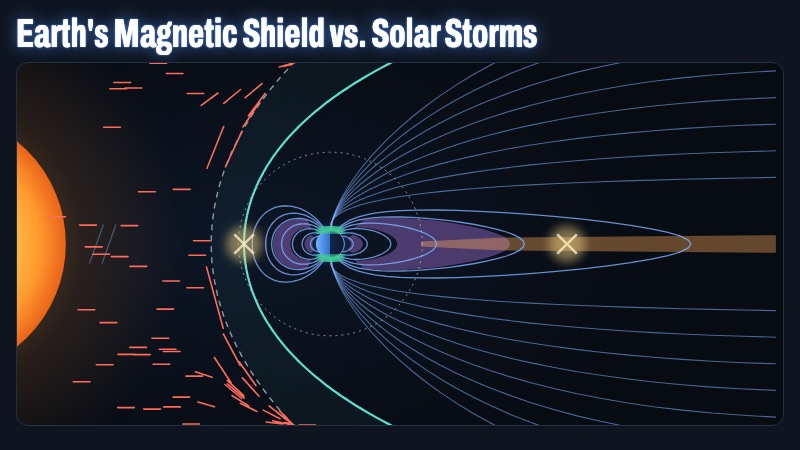
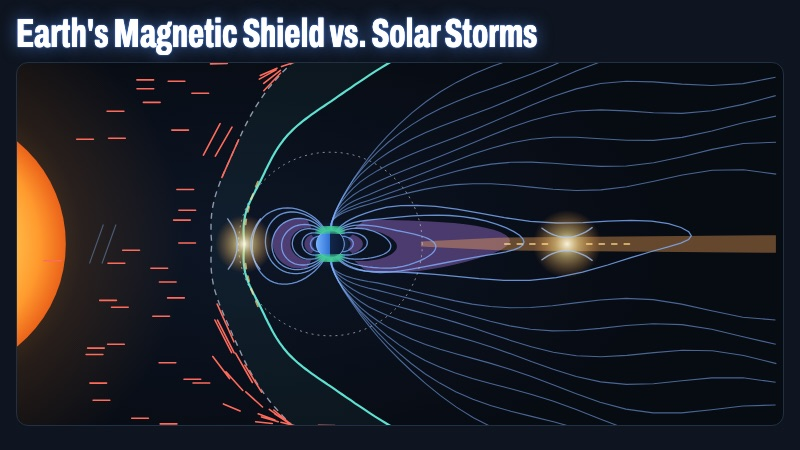
Magnetic shield: radio-card picker, livelier field and flare
Mode picker as a radio group with Try it / Showing labels, greyed
inactive cards and a separate Replay button. Field lines, shield edge
and bow shock now ripple (stronger in storms). Reconnection shown as
glowing sparks with pinched field lines and particle jets. Solar flare
now a repeating sequence: loop, flash, light fronts, ionosphere glow and
energetic protons.

diff --git a/energy/magnetic-shield/index.html b/energy/magnetic-shield/index.html
@@ -182,13 +182,35 @@ h1{margin:0;font-stretch:62%;font-weight:700;font-size:clamp(34px,5vw,56px);line
   text-shadow:0 0 2px rgba(91,149,250,.9),0 0 16px rgba(91,149,250,.6)}
 .sub{margin:8px 0 0;color:var(--soft);font-size:16px;max-width:70ch}
 
-.modes{display:flex;flex-wrap:wrap;gap:8px;margin:18px 0 0}
-.modes button{font:inherit;font-size:15px;font-weight:650;color:var(--soft);background:var(--panel);border:1px solid var(--line);
-  border-radius:999px;padding:9px 16px;cursor:pointer;display:inline-flex;align-items:center;gap:8px}
-.modes button .d{width:10px;height:10px;border-radius:50%}
-.modes button:hover{color:#fff;border-color:#3A5376}
-.modes button[aria-pressed="true"]{color:#fff;background:#16233a;border-color:var(--blue);box-shadow:inset 0 -2px 0 var(--blue)}
-.modes .hint{align-self:center;font-size:13px;color:var(--muted);margin-left:4px}
+.picker{margin:20px 0 0;padding:14px;border-radius:14px;background:linear-gradient(180deg,#132036,#0f1828);border:1px solid #2a3d5c}
+.picker .ask{display:flex;align-items:center;gap:10px;flex-wrap:wrap;margin:0 0 10px 2px}
+.picker .ask b{font-size:17px;color:#fff;font-weight:700}
+.picker .ask .tap{font-size:13px;color:#cfe0ff;background:#1d2e4d;border:1px solid #2f4d7f;border-radius:999px;padding:3px 10px}
+.modes{display:grid;grid-template-columns:repeat(3,minmax(0,1fr));gap:10px}
+@media (max-width:640px){.modes{grid-template-columns:1fr}}
+.modes button{--c:#5B95FA;font:inherit;color:#fff;background:#0E1520;border:2px solid color-mix(in srgb,var(--c) 45%,transparent);
+  border-radius:12px;padding:12px 14px;cursor:pointer;display:flex;align-items:center;gap:12px;text-align:left;transition:transform .15s,background .15s,border-color .15s,box-shadow .15s}
+.modes button .rb{flex:none;width:20px;height:20px;border-radius:50%;border:2px solid color-mix(in srgb,var(--c) 70%,#fff);display:grid;place-items:center}
+.modes button .rb::after{content:"";width:10px;height:10px;border-radius:50%;background:var(--c);transform:scale(0);transition:transform .15s}
+.modes button[aria-checked="true"] .rb::after{transform:scale(1)}
+.modes button .ic{flex:none;width:38px;height:38px;border-radius:50%;display:grid;place-items:center;font-size:19px;background:color-mix(in srgb,var(--c) 22%,transparent)}
+.modes button .txt{flex:1;min-width:0}
+.modes button .t{display:block;font-size:17px;font-weight:700;line-height:1.15}
+.modes button .s{display:block;font-size:12.5px;color:var(--soft);margin-top:2px}
+.modes button .go{flex:none;font-size:12px;font-weight:700;letter-spacing:.04em;padding:4px 10px;border-radius:999px;color:#0b1220;background:var(--c);white-space:nowrap}
+.modes button[aria-checked="true"] .go{background:transparent;color:var(--c);border:1px solid var(--c)}
+.modes button:hover{transform:translateY(-2px);border-color:var(--c);background:color-mix(in srgb,var(--c) 10%,#0E1520)}
+.modes button[aria-checked="true"]{border-color:var(--c);background:color-mix(in srgb,var(--c) 20%,#0E1520);box-shadow:0 0 0 3px color-mix(in srgb,var(--c) 30%,transparent),0 8px 24px color-mix(in srgb,var(--c) 25%,transparent)}
+.modes button[aria-checked="true"] .ic{background:var(--c);color:#0b1220}
+.modes button.new{animation:nudge 2.2s ease-in-out infinite}
+@keyframes nudge{0%,100%{box-shadow:0 0 0 0 color-mix(in srgb,var(--c) 0%,transparent)}50%{box-shadow:0 0 0 6px color-mix(in srgb,var(--c) 28%,transparent)}}
+.replay{margin:10px 0 0 auto;display:flex;justify-content:flex-end}
+.replay button{font:inherit;font-size:14px;font-weight:650;color:#fff;background:#1d2e4d;border:1px solid #2f4d7f;border-radius:999px;padding:7px 14px;cursor:pointer}
+.replay button:hover{background:#26406b}
+.replay button[hidden]{display:none}
+.modes button[aria-checked="false"]{filter:grayscale(1) brightness(.75);opacity:.45;transition:transform .15s,background .15s,border-color .15s,box-shadow .15s,filter .2s,opacity .2s}
+.modes button[aria-checked="false"]:hover,.modes button[aria-checked="false"]:focus-visible{filter:none;opacity:1}
+@media (prefers-reduced-motion:reduce){.modes button.new{animation:none}}
 button:focus-visible{outline:2px solid var(--blue);outline-offset:2px}
 
 .stats{display:grid;grid-template-columns:repeat(4,minmax(0,1fr));gap:12px;margin-top:16px}
@@ -230,7 +252,7 @@ aside h2{margin:0;font-size:12px;font-weight:600;letter-spacing:.12em;text-trans
 
 footer{margin-top:16px;font-size:12.5px;line-height:1.6;color:var(--muted)}
 footer a{color:var(--soft)}
-.thumb{padding:0}.thumb .home-nav,.thumb .sub,.thumb .modes,.thumb .stats,.thumb aside,.thumb .legend,.thumb footer{display:none!important}
+.thumb{padding:0}.thumb .home-nav,.thumb .sub,.thumb .picker,.thumb .stats,.thumb aside,.thumb .legend,.thumb footer{display:none!important}
 .thumb .card{border:0;border-radius:0;padding:14px 16px;height:450px}.thumb h1{font-size:40px}.thumb .grid{grid-template-columns:1fr;margin-top:8px}.thumb #scene{aspect-ratio:auto;height:362px}.thumb #scene text{display:none}
 </style>
 <style>.home-nav{position:sticky;top:12px;z-index:50;max-width:1320px;margin:0 auto 14px;font:500 14px/1.4 "Archivo",system-ui,sans-serif}.home-nav a{color:#fff;text-decoration:none;display:inline-flex;align-items:center;gap:8px;padding:9px 16px 9px 13px;border:0;border-radius:999px;font-weight:650;font-size:14.5px;letter-spacing:.01em;background:#2F6FEF;box-shadow:0 0 0 1px rgba(255,255,255,.18) inset,0 4px 14px rgba(0,0,0,.45)}.home-nav a:hover{background:#3D7BFF}.home-nav a:focus-visible{outline:2px solid #fff;outline-offset:2px}</style>
@@ -240,13 +262,16 @@ footer a{color:var(--soft)}
 <main>
   <div class="card">
     <h1>Earth's Magnetic Shield vs. Solar Storms</h1>
-    <p class="sub">Earth's magnetic field deflects the solar wind, a constant stream of particles from the Sun. Switch between a calm day, a solar flare and a coronal mass ejection to see what gets through, and hover any part to learn what it is.</p>
+    <p class="sub">Earth's magnetic field deflects the solar wind, a constant stream of particles from the Sun. Choose what the Sun is doing below to see what gets through, and hover any part to learn what it is.</p>
 
-    <div class="modes" role="group" aria-label="Space weather">
-      <button id="mCalm" aria-pressed="true"><i class="d" style="background:#5B95FA"></i>Calm solar wind</button>
-      <button id="mFlare" aria-pressed="false"><i class="d" style="background:#FFE08A"></i>Solar flare</button>
-      <button id="mCme" aria-pressed="false"><i class="d" style="background:#FF6B5B"></i>CME hits Earth</button>
-      <span class="hint">Click again to replay</span>
+    <div class="picker">
+      <div class="ask"><b>☀ What is the Sun doing?</b><span class="tap">👆 Click a card to change the scene</span></div>
+      <div class="modes" role="radiogroup" aria-label="What is the Sun doing?">
+        <button id="mCalm" role="radio" aria-checked="true" tabindex="0" style="--c:#5B95FA"><span class="rb" aria-hidden="true"></span><span class="ic" aria-hidden="true">🌍</span><span class="txt"><span class="t">Calm solar wind</span><span class="s">A normal day</span></span><span class="go">Showing</span></button>
+        <button id="mFlare" role="radio" aria-checked="false" tabindex="-1" class="new" style="--c:#FFD86B"><span class="rb" aria-hidden="true"></span><span class="ic" aria-hidden="true">⚡</span><span class="txt"><span class="t">Solar flare</span><span class="s">A flash of light and X-rays</span></span><span class="go">Try it ›</span></button>
+        <button id="mCme" role="radio" aria-checked="false" tabindex="-1" class="new" style="--c:#FF6B5B"><span class="rb" aria-hidden="true"></span><span class="ic" aria-hidden="true">💥</span><span class="txt"><span class="t">CME hits Earth</span><span class="s">A solar storm arrives</span></span><span class="go">Try it ›</span></button>
+      </div>
+      <div class="replay"><button id="bReplay" hidden>↻ Replay</button></div>
     </div>
 
     <div class="stats" aria-live="polite">
@@ -313,6 +338,7 @@ footer a{color:var(--soft)}
     aurora: ['Aurora', 'Light made when particles guided down the field lines hit the upper atmosphere. Normally a ring around the poles; during big storms it spreads toward the equator.'],
     earth: ['Earth', 'The magnetic field comes from molten iron moving in Earth\'s outer core, about 3,000 km below the surface.'],
     flare: ['Solar flare', 'A sudden burst of light and X-rays from the Sun. It travels at the speed of light, so it reaches Earth in about 8 minutes, before any warning.'],
+    protons: ['Solar energetic particles', 'Protons blasted out by the flare at a good fraction of the speed of light. Most are turned away, but some slide down the open field lines into the polar caps, where they disrupt radio and can harm astronauts and satellites.'],
     iono: ['Sunlit ionosphere', 'X-rays from a flare charge up the upper atmosphere on the day side, which absorbs high-frequency radio signals: a radio blackout. The magnetic shield cannot stop light.'],
     cme: ['Coronal mass ejection (CME)', 'A cloud of about a billion tons of solar plasma with its own magnetic field, moving at 250 to 3,000 km/s. The fastest reach Earth in 15 to 18 hours, most take several days.'],
     xday: ['Reconnection on the day side', 'When the CME\'s magnetic field points south, opposite to Earth\'s, the two fields join here. That opens the door for solar wind energy to pour into the magnetosphere.'],
@@ -348,6 +374,7 @@ footer a{color:var(--soft)}
       title: 'A solar flare',
       story: `<p>A <b>flare</b> is a flash of light and X-rays from the Sun. It travels at the speed of light, so it reaches Earth in about <b>8 minutes</b>, with no warning.</p>
         <p>The magnetic shield <b>cannot stop light</b>. The X-rays charge up the upper atmosphere on the <b>sunlit side</b> and block high-frequency radio: a <b>radio blackout</b>, rated R1 to R5 by NOAA.</p>
+        <p>Big flares also fire <b>energetic protons</b> (white streaks). The shield turns most away, but some slide down the field lines into the <b>polar caps</b>.</p>
         <p>The shield itself barely changes. The bigger danger often comes later, if the flare launched a <b>CME</b>.</p>`,
       stats: [['~10 R⊕', 'unchanged: light passes through'], ['~400 km/s', 'unchanged'], ['Polar', 'no change'], ['R1–R5', 'radio blackout scale (not G)']]
     },
@@ -383,10 +410,21 @@ footer a{color:var(--soft)}
   const P = (x, y) => [OX + (x - X0) * S, OY - y * S];
   const path = pts => pts.length ? 'M' + pts.map(p => { const q = P(p[0], p[1]); return f1(q[0]) + ' ' + f1(q[1]); }).join('L') : 'M0 0';
   // Shue-type boundary: r = r0 (2 / (1 + cos θ))^a, θ measured from the Sun direction
-  function boundary(r0, a, xmax = X1 + 2) {
+  // the field is never still: waves run along it, stronger when the solar wind gusts
+  let T = 0;
+  const amp = () => lerp(0.12, 0.3, cur.hot);
+  function wobble(pts, ph, gain = 1) {
+    const A = amp() * gain;
+    return pts.map(([x, y]) => {
+      const r = Math.hypot(x, y), w = clamp((r - 1.3) / 3.5, 0, 1);                 // stays pinned at Earth
+      return [x + A * 0.12 * w * Math.sin(0.6 * y + 2.1 * T + ph), y + A * w * Math.sin(0.32 * x - 2.6 * T + ph) * (1 + Math.max(0, x) / 22)];
+    });
+  }
+  function boundary(r0, a, xmax = X1 + 2, rip = 0) {
     const out = [];
     for (let th = 0; th < 2.9; th += 0.025) {
-      const r = r0 * Math.pow(2 / (1 + Math.cos(th)), a), x = -r * Math.cos(th), y = r * Math.sin(th);
+      const r = r0 * Math.pow(2 / (1 + Math.cos(th)), a) * (1 + rip * (0.012 * Math.sin(1.3 * T) + amp() * 0.06 * Math.sin(7 * th - 2.4 * T))),
+        x = -r * Math.cos(th), y = r * Math.sin(th);
       out.push([x, y]); if (x > xmax) break;
     }
     return out;
@@ -462,7 +500,9 @@ footer a{color:var(--soft)}
     els.sun = mk('sun', { fill: 'url(#gSun)' });
     els.gap = mk(null, { stroke: '#4a5a72', 'stroke-width': 1.2, fill: 'none' });
     els.gapT = R.text('~150 million km', 0, 0).css({ color: '#6d7b92', fontSize: '11px' }).attr({ align: 'center' }).add(els.g);
-    els.wave = mk('flare', { stroke: '#fff2b0', 'stroke-width': 3, fill: 'none', opacity: 0 }, true);
+    els.loop = mk('flare', { stroke: '#fff1b8', 'stroke-width': 3, fill: 'none', 'stroke-linecap': 'round', opacity: 0 }); els.loop.setAttribute('filter', 'url(#bl2)');
+    els.rays = mk(null, { stroke: '#fff6d0', 'stroke-width': 2, fill: 'none', 'stroke-linecap': 'round', opacity: 0 }); els.rays.setAttribute('filter', 'url(#bl2)');
+    els.waves = [6, 3.5, 2].map(w => { const e = mk('flare', { stroke: '#fff2b0', 'stroke-width': w, fill: 'none', 'stroke-linecap': 'round', opacity: 0 }, true); e.setAttribute('filter', 'url(#bl2)'); return e; });
     els.cme = mk('cme', { fill: 'url(#gCme)', stroke: '#ffb0a6', 'stroke-width': 1.5, opacity: 0 });
     els.bow = mk('bow', { stroke: '#8D98A8', 'stroke-width': 1.4, 'stroke-dasharray': '6 5', fill: 'none' }, true);
     els.sheath = mk('mp', { fill: 'rgba(95,224,208,0.05)' });
@@ -480,12 +520,17 @@ footer a{color:var(--soft)}
     els.earthGlow = mk(null, { fill: '#2f6fd0', opacity: 0.35 }); els.earthGlow.setAttribute('filter', 'url(#bl5)');
     els.iono = mk('iono', { stroke: '#ff9a6a', 'stroke-width': 4, fill: 'none', opacity: 0, 'stroke-linecap': 'round' }, true);
     els.iono.setAttribute('filter', 'url(#bl2)');
+    els.ionoHalo = mk('iono', { stroke: '#ff7a4a', 'stroke-width': 10, fill: 'none', opacity: 0, 'stroke-linecap': 'round' }); els.ionoHalo.setAttribute('filter', 'url(#bl5)');
+    els.protons = mk('protons', { stroke: '#e8f4ff', 'stroke-width': 1.6, 'stroke-linecap': 'round', fill: 'none' }); els.protons.style.pointerEvents = 'stroke';
+    els.sceneFlash = mk(null, { fill: '#fff8e0', opacity: 0 });
     els.earth = mk('earth', { fill: 'url(#gEarth)', stroke: '#9cc4ff', 'stroke-width': 0.8 });
     els.aur = [0, 1, 2, 3].map(() => { const e = mk('aurora', { stroke: '#3FCB95', fill: 'none', 'stroke-linecap': 'round' }, true); e.setAttribute('filter', 'url(#bl2)'); return e; });
-    els.xday = mk('xday', { stroke: '#fff', 'stroke-width': 2.4, fill: 'none', opacity: 0 }, true);
-    els.xtail = mk('xtail', { stroke: '#fff', 'stroke-width': 2.4, fill: 'none', opacity: 0 }, true);
-    els.xglow = [mk(null, { fill: '#FFE08A', opacity: 0 }), mk(null, { fill: '#FFE08A', opacity: 0 })];
-    els.xglow.forEach(e => e.setAttribute('filter', 'url(#bl5)'));
+    // reconnection sites: a soft flickering glow, field lines pinching in, and particle jets shooting out
+    grad('gRx', [[0, '#fffbe6', 0.95], [0.35, '#ffe08a', 0.55], [1, '#ff9a3c', 0]], true);
+    els.xglow = [mk(null, { fill: 'url(#gRx)', opacity: 0 }), mk(null, { fill: 'url(#gRx)', opacity: 0 })];
+    els.xday = mk('xday', { stroke: '#a9c9ff', 'stroke-width': 1.4, fill: 'none', opacity: 0, 'stroke-linecap': 'round' }, true);
+    els.xtail = mk('xtail', { stroke: '#a9c9ff', 'stroke-width': 1.4, fill: 'none', opacity: 0, 'stroke-linecap': 'round' }, true);
+    els.jets = mk(null, { stroke: '#FFE08A', 'stroke-width': 2, fill: 'none', 'stroke-linecap': 'round', opacity: 0 });
     els.labels = ['Bow shock', 'Magnetopause', 'Van Allen belts', 'Geostationary orbit'].map((t, i) =>
       R.text(t, 0, 0).css({ color: ['#8D98A8', '#5FE0D0', '#c9a6f5', '#B9C2CF'][i], fontSize: '11.5px', fontWeight: '600' })
         .attr({ stroke: '#070b12', 'stroke-width': 3, 'paint-order': 'stroke' }).add(els.g));
@@ -501,13 +546,14 @@ footer a{color:var(--soft)}
   }
 
   /* ---------- animation ---------- */
-  let flareT = -1, cmeT = -1, xpulse = 0;
+  let flareT = -1, cmeT = -1, xpulse = 0, protons = [], protonsOut = false;
   function frame(dt) {
     // ease toward the target state
     const k = 1 - Math.exp(-dt * 1.6);
     ['r0', 'a', 'st', 'aur', 'belt', 'wind', 'hot'].forEach(p => { cur[p] = lerp(cur[p], target[p], k); });
     cur.windCol = cur.windCol.map((c, i) => lerp(c, target.windCol[i], k));
-    const s = cur, MP = boundary(s.r0, s.a), BS = boundary(s.r0 * 1.38, Math.max(0.78, s.a + 0.12));
+    T += dt;
+    const s = cur, MP = boundary(s.r0, s.a, X1 + 2, 1), BS = boundary(s.r0 * 1.38, Math.max(0.78, s.a + 0.12), X1 + 2, 0.7);
 
     // Sun and distance gap
     const sunC = [X0 - 7.5, 0], sr = 9.5;
@@ -518,14 +564,61 @@ footer a{color:var(--soft)}
 
     // flare: flash on the Sun, light front racing to Earth, sunlit ionosphere lights up
     if (flareT >= 0) flareT += dt;
-    const fl = flareT < 0 ? 0 : flareT;
-    els.flash.setAttribute('opacity', mode === 'flare' ? clamp(1 - fl / 2.5, 0.25, 1) * (0.7 + 0.3 * Math.sin(fl * 9)) : 0);
-    setD(els.flash, path(circ([sunC[0] + 6.5, 4.5], 4.5)) + 'Z');
-    const waveX = lerp(sunC[0] + 8, 2, clamp(fl / 1.4, 0, 1));
-    els.wave.setAttribute('opacity', mode === 'flare' && fl < 1.6 ? 0.9 : 0);
-    setD(els.wave, path(Array.from({ length: 31 }, (_, i) => { const a = (i / 30 - 0.5) * 1.6; return [waveX - (waveX - sunC[0]) * (1 - Math.cos(a)), (waveX - sunC[0]) * Math.sin(a)]; })));
-    els.iono.setAttribute('opacity', mode === 'flare' ? clamp((fl - 1.3) * 2, 0, 1) * (0.75 + 0.25 * Math.sin(fl * 4)) : 0);
+    // the flare repeats every 7 s: loop brightens, blinding flash, light fronts race out, Earth's sunlit side lights up,
+    // then a burst of energetic protons arrives and pours into the polar caps
+    const on = mode === 'flare', fl = flareT < 0 ? 0 : flareT % 7, spot = [sunC[0] + sr * Math.cos(0.42), sr * Math.sin(0.42)];
+    const build = clamp(fl / 0.6, 0, 1), burst = fl < 0.6 ? 0 : Math.exp(-(fl - 0.6) * 1.6), hitT = 0.6 + 1.3;
+    els.flash.setAttribute('opacity', on ? clamp(0.25 + 0.35 * build + burst, 0, 1) * (0.85 + 0.15 * Math.sin(fl * 23)) : 0);
+    setD(els.flash, path(circ(spot, 2.2 + 6 * burst, 40)) + 'Z');
+    // glowing magnetic loop on the Sun's edge that brightens and snaps
+    const lp = [];
+    for (let i = 0; i <= 24; i++) { const a = 0.22 + 0.4 * i / 24, h = 1 + (1.6 + 1.2 * burst) * Math.sin(Math.PI * i / 24) / sr;
+      lp.push([sunC[0] + sr * h * Math.cos(a), sr * h * Math.sin(a)]); }
+    setD(els.loop, path(lp)); els.loop.setAttribute('opacity', on ? clamp(0.35 + build * 0.6 - (fl > 0.6 ? (fl - 0.6) * 0.3 : 0), 0.15, 1) : 0);
+    els.loop.setAttribute('stroke-width', 3 + 5 * burst);
+    // rays bursting from the flare
+    let rd = '';
+    if (on && burst > 0.02) for (let i = 0; i < 14; i++) { const a = -1.1 + 2.2 * i / 13 + 0.08 * Math.sin(i * 7), r0 = 1.2, r1 = 1.2 + (3 + 5 * ((i * 37) % 7) / 7) * (0.4 + burst);
+      rd += path([[spot[0] + r0 * Math.cos(a), spot[1] + r0 * Math.sin(a)], [spot[0] + r1 * Math.cos(a), spot[1] + r1 * Math.sin(a)]]); }
+    setD(els.rays, rd || 'M0 0'); els.rays.setAttribute('opacity', on ? burst : 0);
+    // three light / X-ray fronts, staggered
+    const dEarth = Math.hypot(spot[0], spot[1]);
+    els.waves.forEach((e, k) => {
+      const tk = fl - 0.6 - k * 0.14, R = dEarth * clamp(tk / 1.3, 0, 1.35);
+      const show = on && tk > 0 && R < dEarth * 1.3;
+      e.setAttribute('opacity', show ? (1 - k * 0.3) * clamp(1.3 - R / dEarth, 0, 1) : 0);
+      setD(e, show ? path(Array.from({ length: 41 }, (_, i) => { const a = Math.atan2(-spot[1], -spot[0]) + (i / 40 - 0.5) * 1.3; return [spot[0] + R * Math.cos(a), spot[1] + R * Math.sin(a)]; })) : 'M0 0');
+    });
+    // when the light hits: the whole scene flashes and the sunlit ionosphere glows
+    const hit = on && fl > hitT ? Math.exp(-(fl - hitT) * 2.2) : 0;
+    els.sceneFlash.setAttribute('opacity', hit * 0.28);
+    setD(els.sceneFlash, path([[X0 - 10, -YH - 2], [X1 + 2, -YH - 2], [X1 + 2, YH + 2], [X0 - 10, YH + 2]]) + 'Z');
+    const glow = on ? clamp((fl - hitT) * 3, 0, 1) * (0.7 + 0.3 * Math.sin(fl * 6)) : 0;
+    els.iono.setAttribute('opacity', glow); els.iono.setAttribute('stroke-width', 4 + 6 * hit);
+    els.ionoHalo.setAttribute('opacity', glow * 0.7);
+    setD(els.ionoHalo, path(Array.from({ length: 31 }, (_, i) => { const a = Math.PI / 2 + i / 30 * Math.PI; return [1.7 * Math.cos(a), 1.7 * Math.sin(a)]; })));
     setD(els.iono, path(Array.from({ length: 31 }, (_, i) => { const a = Math.PI / 2 + i / 30 * Math.PI; return [1.22 * Math.cos(a), 1.22 * Math.sin(a)]; })));
+    // energetic protons: fast streaks, most deflected by the bow shock, some funnelled into the polar caps
+    if (on && fl > hitT + 0.4 && !protonsOut) { protonsOut = true; protons = Array.from({ length: 70 }, (_, i) => ({ x: spot[0] + Math.random() * 2, y: (Math.random() * 2 - 1) * 9, v: 26 + Math.random() * 14, pole: i % 3 === 0 ? (Math.random() < 0.5 ? 1 : -1) : 0, done: false })); }
+    if (fl < 0.1) protonsOut = false;
+    let pd = '';
+    if (on) for (const q of protons) {
+      if (q.done) continue;
+      q.x += dt * q.v;
+      let a, b;
+      if (q.pole && q.x > -s.r0 * 1.4) {
+        q.k = (q.k || 0) + dt * 0.9; const k = clamp(q.k, 0, 1);
+        const sx = -s.r0 * 1.4, sy = q.pole * Math.max(4, Math.abs(q.y));
+        const px = lerp(sx, 0.25, k), py = lerp(sy, q.pole * 1.1, k * k);
+        a = [px - 0.5, py + q.pole * 0.4]; b = [px, py]; if (k >= 1) q.done = true;
+      } else {
+        const dr = x => { const hb = halfAt(BS, x); return [x, Math.sign(q.y || 1) * (hb + Math.abs(q.y) * (YH - hb) / YH)]; };
+        a = dr(q.x - 1.4); b = dr(q.x); if (q.x > X1 + 2) q.done = true;
+      }
+      const qa = P(a[0], a[1]), qb = P(b[0], b[1]);
+      pd += 'M' + f1(qa[0]) + ' ' + f1(qa[1]) + 'L' + f1(qb[0]) + ' ' + f1(qb[1]);
+    }
+    els.protons.setAttribute('d', pd || 'M0 0');
 
     // CME: a bright bubble flies to Earth, then the storm state takes over
     if (cmeT >= 0) {
@@ -552,14 +645,14 @@ footer a{color:var(--soft)}
     const dayL = [1.5, 2.2, 3.1, 4.3, 5.8, 7.6, 9.6], nightL = [1.5, 2.2, 3.1, 4.3, 5.8, 7.6];
     let ci = 0;
     dayL.forEach(L => { const pts = dipole(L, -1, s); const minX = Math.min(...pts.map(p => p[0]));
-      setD(els.closed[ci++], minX > -s.r0 * 0.94 ? path(pts) : 'M0 0'); });
-    nightL.forEach(L => setD(els.closed[ci++], path(dipole(L, 1, s))));
+      setD(els.closed[ci++], minX > -s.r0 * 0.94 ? path(wobble(pts, L * 1.3, 0.6)) : 'M0 0'); });
+    nightL.forEach(L => setD(els.closed[ci++], path(wobble(dipole(L, 1, s), L * 0.9))));
     const nOpen = Math.round(lerp(4, 8, s.hot)), phiMin = lerp(72, 64, s.hot);
     els.open.forEach((e, i) => {
       const j = i % 8, north = i < 8;
-      setD(e, j < nOpen ? path(openLine(phiMin + (86 - phiMin) * (j + 0.5) / nOpen, north, s, MP)) : 'M0 0');
+      setD(e, j < nOpen ? path(wobble(openLine(phiMin + (86 - phiMin) * (j + 0.5) / nOpen, north, s, MP), j * 0.8 + (north ? 0 : 2.1), 1.0)) : 'M0 0');
     });
-    [-1, 1].forEach((sd, i) => { setD(els.beltsO[i], path(band(3.3, 5.6, sd, s)) + 'Z'); setD(els.beltsI[i], path(band(1.35, 2.0, sd, s, 0.6)) + 'Z'); });
+    [-1, 1].forEach((sd, i) => { setD(els.beltsO[i], path(wobble(band(3.3, 5.6, sd, s), 4, 0.5)) + 'Z'); setD(els.beltsI[i], path(band(1.35, 2.0, sd, s, 0.6)) + 'Z'); });
     [...els.beltsO, ...els.beltsI].forEach(e => e.setAttribute('opacity', s.belt));
     { const q = P(4.2, 3.3); els.labels[2].attr({ x: q[0], y: q[1] }); }
     const thick = lerp(0.9, 0.45, s.hot);
@@ -584,12 +677,33 @@ footer a{color:var(--soft)}
     // reconnection flashes during the storm
     xpulse += dt;
     const xo = s.hot > 0.6 ? (0.55 + 0.45 * Math.sin(xpulse * 3.2)) * s.hot : 0;
-    const X = (c, r) => path([[c[0] - r, c[1] - r], [c[0] + r, c[1] + r]]) + path([[c[0] - r, c[1] + r], [c[0] + r, c[1] - r]]);
     const xd = [-s.r0, 0], xt = [17, 0];
-    setD(els.xday, X(xd, 0.7)); setD(els.xtail, X(xt, 0.7));
-    els.xday.setAttribute('opacity', xo); els.xtail.setAttribute('opacity', xo);
-    setD(els.xglow[0], path(circ(xd, 1.3, 20)) + 'Z'); setD(els.xglow[1], path(circ(xt, 1.3, 20)) + 'Z');
-    els.xglow.forEach(e => e.setAttribute('opacity', xo * 0.6));
+    // pinch: field lines bend in toward the point from both sides (vertical axis = the direction they come from)
+    const pinch = (c, along) => {
+      let d = '';
+      [0.45].forEach(g => [-1, 1].forEach(sg => {
+        const pts = [];
+        for (let i = 0; i <= 16; i++) { const u = -1.8 + 3.6 * i / 16, v = sg * (g + 0.22 * u * u + 0.04 * Math.sin(xpulse * 5 + u));
+          pts.push(along === 'x' ? [c[0] + u, c[1] + v] : [c[0] + v, c[1] + u]); }
+        d += path(pts);
+      }));
+      return d;
+    };
+    setD(els.xday, pinch(xd, 'y')); setD(els.xtail, pinch(xt, 'x'));
+    els.xday.setAttribute('opacity', xo * 0.9); els.xtail.setAttribute('opacity', xo * 0.9);
+    const flick = 0.75 + 0.25 * Math.sin(xpulse * 11) * Math.sin(xpulse * 7.3);
+    setD(els.xglow[0], path(circ(xd, 2.2 * flick, 24)) + 'Z'); setD(els.xglow[1], path(circ(xt, 2.6 * flick, 24)) + 'Z');
+    els.xglow.forEach(e => e.setAttribute('opacity', clamp(xo * 1.3, 0, 1)));
+    // jets: short streaks flying away from each site (along the shield's edge on the day side, along the tail at night)
+    let jd = '';
+    for (let i = 0; i < 4; i++) {
+      const ph = (xpulse * 0.7 + i / 4) % 1, r = 0.9 + ph * 3.6, l = 0.35;
+      [-1, 1].forEach(sg => {
+        jd += path([[xd[0] + 0.05 * r * r, sg * r], [xd[0] + 0.05 * (r + l) * (r + l), sg * (r + l)]]);
+        jd += path([[xt[0] + sg * r, 0], [xt[0] + sg * (r + l), 0]]);
+      });
+    }
+    setD(els.jets, jd); els.jets.setAttribute('opacity', xo * 0.8);
 
     // solar wind particles: flow from the Sun and bend around the bow shock
     let d = '';
@@ -609,8 +723,12 @@ footer a{color:var(--soft)}
   /* ---------- modes ---------- */
   function setMode(m) {
     mode = m;
-    ['calm', 'flare', 'storm'].forEach((k, i) => $(['mCalm', 'mFlare', 'mCme'][i]).setAttribute('aria-pressed', String(k === m)));
-    flareT = m === 'flare' ? 0 : -1;
+    ['calm', 'flare', 'storm'].forEach((k, i) => { const b = $(['mCalm', 'mFlare', 'mCme'][i]), sel = k === m;
+      b.setAttribute('aria-checked', String(sel)); b.tabIndex = sel ? 0 : -1; if (sel) b.classList.remove('new');
+      b.querySelector('.go').textContent = sel ? 'Showing' : (b.classList.contains('new') ? 'Try it ›' : 'Show ›'); });
+    $('bReplay').hidden = m === 'calm';
+    $('bReplay').textContent = m === 'flare' ? '↻ Replay the flare' : '↻ Replay the CME';
+    flareT = m === 'flare' ? 0 : -1; protons = []; protonsOut = false;
     cmeT = m === 'storm' ? 0 : -1;
     target = m === 'storm' ? STATE.calm : STATE[m];        // the storm state starts when the CME arrives
     if (m === 'storm' && cur.hot > 0.5) { Object.assign(cur, STATE.calm, { windCol: STATE.calm.windCol.slice() }); }
@@ -619,6 +737,13 @@ footer a{color:var(--soft)}
   $('mCalm').addEventListener('click', () => setMode('calm'));
   $('mFlare').addEventListener('click', () => setMode('flare'));
   $('mCme').addEventListener('click', () => setMode('storm'));
+  $('bReplay').addEventListener('click', () => setMode(mode));
+  // arrow keys move between the cards, like any radio group
+  const ORDER = ['calm', 'flare', 'storm'], IDS = ['mCalm', 'mFlare', 'mCme'];
+  document.querySelector('.modes').addEventListener('keydown', e => {
+    const d = { ArrowRight: 1, ArrowDown: 1, ArrowLeft: -1, ArrowUp: -1 }[e.key]; if (!d) return;
+    e.preventDefault(); const n = ORDER[(ORDER.indexOf(mode) + d + 3) % 3]; setMode(n); $(IDS[ORDER.indexOf(n)]).focus();
+  });
 
   /* ---------- hover ---------- */
   const stage = $('stage'), tip = $('tip');
@@ -644,7 +769,7 @@ footer a{color:var(--soft)}
     chart: { backgroundColor: 'transparent', animation: false, spacing: [0, 0, 0, 0],
       events: { load() { setup(this); const q = new URLSearchParams(location.search).get('mode'); if (new URLSearchParams(location.search).has('thumb')) document.body.classList.add('thumb'); setMode(['calm', 'flare', 'storm'].includes(q) ? q : 'calm');
         if (q === 'storm') { cmeT = 9; Object.assign(cur, STATE.storm, { windCol: STATE.storm.windCol.slice() }); target = STATE.storm; }
-        if (q === 'flare') flareT = 2.2;
+        if (q === 'flare') flareT = 2.0;
         requestAnimationFrame(tick); }, redraw() { if (R) resize(); } } },
     title: { text: null }, tooltip: { enabled: false }, legend: { enabled: false }, xAxis: { visible: false }, yAxis: { visible: false },
     credits: { enabled: false },
